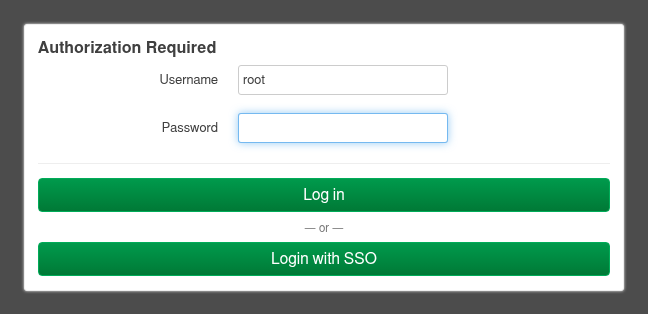
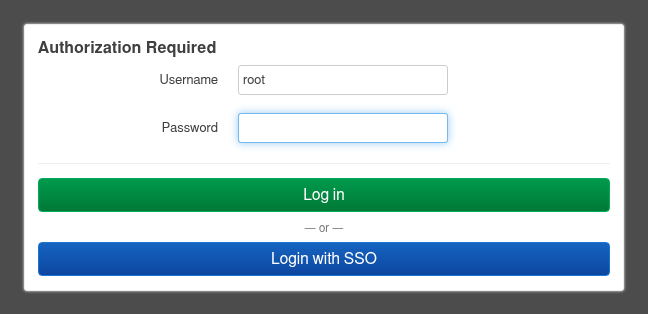
docs: explain the SSO button's "identity provider is not responding"
The debugging guide gets a section for the message the SSO button now
shows when the browser cannot reach the IdP: the router has no error to
log, and the check is to open the discovery document, then its
authorization_endpoint, from the same browser on the same device. Each
provider guide's troubleshooting list links to it.

The login page screenshot is refreshed with make screenshots, showing
the SSO button in the theme's blue action style, and its alt text says
blue instead of green.

Changed region(s): [[0.0617, 0.7452, 0.9568, 0.8885]]

diff --git a/docs/how-to/providers/generic-oidc.md b/docs/how-to/providers/generic-oidc.md
@@ -159,7 +159,7 @@ Check that the service is active. On the router:
 
 Then open the LuCI login page in a browser.
 
-![LuCI login page: an Authorization Required box with Username and Password fields and a green Log in button, followed by "— or —" and a green Login with SSO button](../../assets/screenshots/luci-login-sso-button.png "The LuCI login page with the Login with SSO button")
+![LuCI login page: an Authorization Required box with Username and Password fields and a green Log in button, followed by "— or —" and a blue Login with SSO button](../../assets/screenshots/luci-login-sso-button.png "The LuCI login page with the Login with SSO button")
 
 The **Login with SSO** button should appear. Clicking it redirects to your IdP's login screen. After authenticating, you should be redirected back to the LuCI dashboard.
 
@@ -173,6 +173,7 @@ If the login fails, check the system log:
 
 Common errors and their meaning are listed in the [Log Messages Reference](../../reference/log-messages.md). The most frequent issues with new providers are:
 
+- **The Login with SSO button says "The identity provider is not responding"** — The browser cannot reach the IdP; the router has no error to log. Open `<issuer_url>/.well-known/openid-configuration` in the same browser, on the same device. See [The SSO button says the identity provider is not responding](../sysadmin/debugging.md#the-sso-button-says-the-identity-provider-is-not-responding).
 - **`[502] OIDC_DISCOVERY_FAILED` after a `DISCOVERY_ISSUER_MISMATCH` line** — The `issuer_url` you configured doesn't match the `issuer` field in the discovery document. The line shows both values; set `issuer_url` to the one the document declares, exactly. The line says so when a trailing slash, letter case or `:443` is the only difference.
 - **`[401] ID_TOKEN_VERIFICATION_FAILED`** — The `OAuth flow failed` line before it names the failed check. `UNSUPPORTED_ALGORITHM` means the IdP signs tokens with HS256 or another algorithm: configure the client to use RS256 or ES256. `AT_HASH_MISMATCH` means the ID Token's `at_hash` does not match the access token the IdP returned.
 - **`[403] USER_NOT_AUTHORIZED` after `User [sub_id: …] matched no roles`** — Authentication succeeded but no UCI role matched the user's email or groups. Email matching ignores case; group matching does not. Add the user's email with `uci add_list luci-sso.admin.email='...'`.

diff --git a/docs/how-to/providers/authentik.md b/docs/how-to/providers/authentik.md
@@ -196,6 +196,7 @@ To check logout, sign in with SSO and click **Log out** in LuCI. The browser pas
 
 | Symptom | Likely cause |
 | :--- | :--- |
+| The **Login with SSO** button says "The identity provider is not responding" | The browser cannot reach the IdP; the router has no error to log. Open `https://authentik.example.com/application/o/luci-router/.well-known/openid-configuration` in the same browser, on the same device. See [The SSO button says the identity provider is not responding](../sysadmin/debugging.md#the-sso-button-says-the-identity-provider-is-not-responding). |
 | `[502] OIDC_DISCOVERY_FAILED`, preceded by `DISCOVERY_ISSUER_MISMATCH: issuer_url is "…" but the discovery document declares "…"` | Authentik declares a different issuer than `issuer_url`. If the declared issuer has no `/application/o/<slug>/` path, the provider's **Issuer mode** is "Same identifier is used for all providers": set it back to "Each provider has a different issuer, based on the application slug". If only the host name differs, the router reached Authentik under another name (for example through `internal_issuer_url`); Authentik builds its issuer from the host name in the request. If the two differ only in the trailing slash, add it: Authentik's issuer ends with `/`. |
 | `[502] OIDC_DISCOVERY_FAILED`, preceded by `Discovery fetch HTTP 404 from [id: …]` | The application slug in the URL is wrong, or the Application was not created (only the Provider). Verify both the Provider and Application exist in Authentik. Authentik fills the slug in from the application name (`LuCI Router` becomes `lu-ci-router`). |
 | `[500] CONFIG_ERROR`, preceded by `Configuration rejected: <reason>` | A required option is missing or invalid; the reason names it. `redirect_uri is mandatory and must use HTTPS` means `redirect_uri` was never saved: set it with `uci set luci-sso.default.redirect_uri='https://<YOUR_ROUTER_IP_OR_DOMAIN>/cgi-bin/luci-sso/callback'` and `uci commit luci-sso`. |

diff --git a/docs/how-to/providers/authelia.md b/docs/how-to/providers/authelia.md
@@ -163,6 +163,7 @@ Authelia has no end-session endpoint, so LuCI's **Log out** ends the router sess
 
 | Symptom | Likely cause |
 | :--- | :--- |
+| The **Login with SSO** button says "The identity provider is not responding" | The browser cannot reach the IdP; the router has no error to log. Open `https://auth.example.com/.well-known/openid-configuration` in the same browser, on the same device. See [The SSO button says the identity provider is not responding](../sysadmin/debugging.md#the-sso-button-says-the-identity-provider-is-not-responding). |
 | `[502] OIDC_DISCOVERY_FAILED`, preceded by `Discovery fetch failed for [id: …]: …` | The router cannot reach `auth.example.com`; the end of the line names the cause. Test from the router with `uclient-fetch -q -O - 'https://auth.example.com/.well-known/openid-configuration'`. If the line ends in `HTTP_REQUEST_FAILED (CERT_UNTRUSTED)`, the router does not trust Authelia's certificate; see [How to Install a Private CA Certificate](../sysadmin/install-ca-certificate.md). |
 | `[502] OIDC_DISCOVERY_FAILED`, preceded by `Discovery fetch HTTP 400 from [id: …]` | `issuer_url` is not the `authelia_url` of any session cookie in Authelia's configuration (a different host name, a port, or an IP address). Authelia logs `no session cookie configuration matches url '…'`. Set `issuer_url` to the `authelia_url` exactly. |
 | `[502] OIDC_DISCOVERY_FAILED`, preceded by `DISCOVERY_ISSUER_MISMATCH: issuer_url is "…" but the discovery document declares "…"` | `issuer_url` differs from the issuer Authelia declares, even if only by a trailing slash or letter case. Copy the declared value into `issuer_url` exactly. |

diff --git a/docs/how-to/providers/keycloak.md b/docs/how-to/providers/keycloak.md
@@ -185,6 +185,7 @@ Navigate to the LuCI login page. The **Login with SSO** button should appear. Cl
 
 | Symptom | Likely cause |
 | :--- | :--- |
+| The **Login with SSO** button says "The identity provider is not responding" | The browser cannot reach the IdP; the router has no error to log. Open `https://<YOUR_KEYCLOAK_HOST>/realms/<YOUR_REALM_NAME>/.well-known/openid-configuration` in the same browser, on the same device. See [The SSO button says the identity provider is not responding](../sysadmin/debugging.md#the-sso-button-says-the-identity-provider-is-not-responding). |
 | `[502] OIDC_DISCOVERY_FAILED`, preceded by `Discovery fetch HTTP 404 from [id: …]` | The realm path in `issuer_url` is wrong. Realm names are case-sensitive, and Keycloak 17 and later has no `/auth` prefix. |
 | `[502] OIDC_DISCOVERY_FAILED`, preceded by `DISCOVERY_ISSUER_MISMATCH: issuer_url is "…" but the discovery document declares "…"` | Keycloak builds its issuer from its configured host name (the realm's **Frontend URL**, or the server's `hostname` option), which differs from the host in `issuer_url`, or `issuer_url` has a trailing slash that Keycloak's issuer lacks. Copy the `issuer` field from the realm's `/.well-known/openid-configuration` document exactly. |
 | `[400] IDP_ERROR`, preceded by `IDP_ERROR: the IdP returned error=invalid_scope (Invalid scopes: …)` | The router's **Scopes** include a scope Keycloak does not have, usually `groups`. Remove it, or create a client scope with that name and add it to the client. |

diff --git a/docs/how-to/providers/pocket-id.md b/docs/how-to/providers/pocket-id.md
@@ -150,6 +150,7 @@ Open the LuCI login page at the host name used in the Redirect URI; the login fa
 
 | Symptom | Likely cause |
 | :--- | :--- |
+| The **Login with SSO** button says "The identity provider is not responding" | The browser cannot reach the IdP; the router has no error to log. Open `https://id.example.com/.well-known/openid-configuration` in the same browser, on the same device. See [The SSO button says the identity provider is not responding](../sysadmin/debugging.md#the-sso-button-says-the-identity-provider-is-not-responding). |
 | `[502] OIDC_DISCOVERY_FAILED`, preceded by `DISCOVERY_ISSUER_MISMATCH: issuer_url is "…" but the discovery document declares "…"` | `issuer_url` must be the base URL of your Pocket ID instance (`https://id.example.com`), with no path and no trailing slash. It must use the host name Pocket ID is configured with, not an IP address or another alias. Pocket ID's issuer is its `APP_URL` setting; copy it exactly. |
 | `[500] CONFIG_ERROR`, preceded by `Configuration rejected: <reason>` | A required option is missing or invalid; the reason names it. `redirect_uri is mandatory and must use HTTPS` means `redirect_uri` was never saved: set it with the `uci set luci-sso.default.redirect_uri=…` command from Step 2. |
 | `[401] MISSING_HANDSHAKE_COOKIE` | The login started at a different host name than the one in the Redirect URI. Open LuCI at the Redirect URI's host and try again. |

diff --git a/docs/how-to/providers/google.md b/docs/how-to/providers/google.md
@@ -100,6 +100,7 @@ Navigate to the LuCI login page. The **Login with SSO** button should appear. Cl
 
 | Symptom | Likely cause |
 | :--- | :--- |
+| The **Login with SSO** button says "The identity provider is not responding" | The browser cannot reach the IdP; the router has no error to log. Open `https://accounts.google.com/.well-known/openid-configuration` in the same browser, on the same device. See [The SSO button says the identity provider is not responding](../sysadmin/debugging.md#the-sso-button-says-the-identity-provider-is-not-responding). |
 | `[502] OIDC_DISCOVERY_FAILED`, preceded by `Discovery fetch failed for [id: …]: …` | The router cannot reach `accounts.google.com`; the end of the line names the cause. Check DNS and firewall rules from the router, not just from your laptop. |
 | `[500] CONFIG_ERROR`, preceded by `Configuration rejected: redirect_uri is mandatory and must use HTTPS` | `redirect_uri` was never saved. Set it with `uci set luci-sso.default.redirect_uri='https://<YOUR_ROUTER_DOMAIN>/cgi-bin/luci-sso/callback'` and `uci commit luci-sso`. Other `Configuration rejected` reasons name the option to fix. |
 | `[502] TOKEN_EXCHANGE_FAILED`, preceded by `Token exchange HTTP 401` | Google rejected the client credentials. Check that `client_id` and `client_secret` are the pair from Step 1. |

diff --git a/docs/how-to/sysadmin/debugging.md b/docs/how-to/sysadmin/debugging.md
@@ -45,6 +45,22 @@ If the probe returns `{"enabled": true}` but the button is still missing, clear 
 
 ---
 
+## The SSO button says the identity provider is not responding
+
+After a click on **Login with SSO**, the button shows `Redirecting...`. If the page is still there 15 seconds later, the button comes back with the message `The identity provider is not responding. Check that this device can reach it, then try again.`
+
+The router started the login and sent the browser to the IdP, but the browser cannot reach the IdP. The log shows `Initiating OIDC login flow`, no `OIDC callback received` line and no error. The problem is between the browser's device and the IdP, not on the router.
+
+Open the discovery document in a new tab of the same browser, on the same device:
+
+```
+<issuer_url>/.well-known/openid-configuration
+```
+
+If it does not load, fix what stands between this device and the IdP: DNS, a VPN, a firewall, or the IdP itself being down. If it loads, open the `authorization_endpoint` it lists the same way: the browser is sent there. Password login keeps working in the meantime.
+
+---
+
 ## Clicking the button shows an error page
 
 The router could not start the login, so the browser never reached the IdP.

diff --git a/docs/tutorials/pocket-id-sso-login.md b/docs/tutorials/pocket-id-sso-login.md
@@ -120,7 +120,7 @@ Navigate to `https://192.168.1.1/cgi-bin/luci/`. The login page should show a "L
 !!! warning "Use the same host name as the Redirect URI"
     Open LuCI at the same address as in the Redirect URI, here `192.168.1.1`. If the Redirect URI uses a host name instead, open LuCI at that name. The login starts at whatever address the browser shows, and its cookie is only sent back to that exact host, so a login started at one address fails when Pocket ID returns to another.
 
-![LuCI login page: an Authorization Required box with Username and Password fields and a green Log in button, followed by "— or —" and a green Login with SSO button](../assets/screenshots/luci-login-sso-button.png "The LuCI login page with the Login with SSO button")
+![LuCI login page: an Authorization Required box with Username and Password fields and a green Log in button, followed by "— or —" and a blue Login with SSO button](../assets/screenshots/luci-login-sso-button.png "The LuCI login page with the Login with SSO button")
 
 If the button is not there, clear the browser cache and reload. If it still does not appear, check the system log:
 

diff --git a/docs/tutorials/first-sso-login.md b/docs/tutorials/first-sso-login.md
@@ -116,7 +116,7 @@ Navigate to `https://router.example.com/cgi-bin/luci/`. The login page should sh
 !!! warning "Use the same host name as the Redirect URI"
     Open LuCI at `router.example.com`, the host in the Redirect URI, not at its IP address or another name. The login starts at whatever address the browser shows, and its cookie is only sent back to that exact host, so a login started at `192.168.1.1` fails when Google returns to `router.example.com`.
 
-![LuCI login page: an Authorization Required box with Username and Password fields and a green Log in button, followed by "— or —" and a green Login with SSO button](../assets/screenshots/luci-login-sso-button.png "The LuCI login page with the Login with SSO button")
+![LuCI login page: an Authorization Required box with Username and Password fields and a green Log in button, followed by "— or —" and a blue Login with SSO button](../assets/screenshots/luci-login-sso-button.png "The LuCI login page with the Login with SSO button")
 
 If the button is not there, clear the browser cache and reload. If it still does not appear, check the system log:
 
